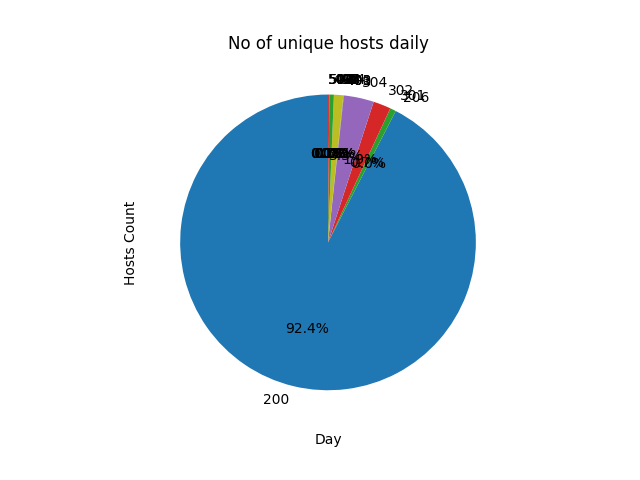
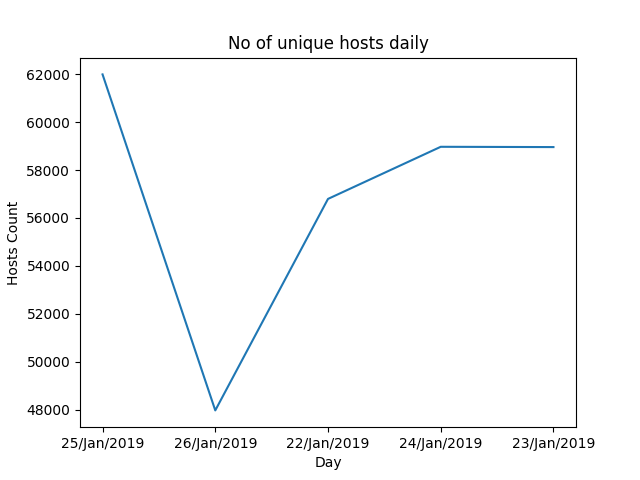
final done ig

diff --git a/q2.py b/q2.py
@@ -1,7 +1,9 @@
+from datetime import date
 import numpy as np
 import re
 import pandas as pd
 from pyspark.sql import SparkSession
+import matplotlib.pyplot as plt
 
 def f(s):
     data_arr = []
@@ -30,32 +32,28 @@ print("Number of bad rows: ", orig_count - data.count())
 
 # part D a
 d_1 = data.map(lambda x: (x[3], 1))
-d_1 = d_1.reduceByKey(lambda x,y: x+y).sortByKey()
+d_1 = d_1.groupByKey().mapValues(len).sortByKey()
 
-print("HTTP status analysis:\nstatus     count")
+print("HTTP status analysis:\nstatus    count")
 for x in d_1.collect():
     print(x[0], "     ", x[1])
-    
+
 # part D b
 
 tots = d_1.values().reduce(lambda x,y: x+y)
-
 d2 = d_1.map(lambda x : (x[0], x[1] / tots))
 
-#matplotlib pie-chart of d2
-import matplotlib.pyplot as plt
-#pie-chart of d2
 keys = d2.keys().collect()
 values = d2.values().collect()
+plt.figure()
 plt.pie(values, labels=keys, autopct='%1.1f%%', startangle=90)
-plt.savefig('pie_chart.png')
-# plt.show()
+plt.savefig('http_status_analysis.png')
 
 # part D c
 d_3 = data.map(lambda x: (x[0], 1))
-d_3 = d_3.reduceByKey(lambda x,y: x+y)
+d_3 = d_3.groupByKey().mapValues(len)
 
-print("Frequent hosts:\nhost       count")
+print("Frequent hosts:\nhost        count")
 for x in d_3.collect():
     print(x[0], "     ", x[1])
 
@@ -63,21 +61,20 @@ for x in d_3.collect():
 print("Unique hosts:\n", d_3.count())
 
 # part D e
-date_dataset = data.map(lambda x: ((x[1][0:11], x[0]), 1))
-date_dataset = date_dataset.keys().map(lambda x: (x[0], 1))
-date_dataset = date_dataset.reduceByKey(lambda x,y: x+y).sortByKey()
+date_dataset = data.map(lambda x: (x[1][0:11], x[0]))
+date_dataset = date_dataset.groupByKey().map(lambda x: (x[0], len(set(x[1])))).sortByKey()
 
-print("Unique hosts per day:\nday       hosts")
+print("Unique hosts per day:\nday               hosts")
 
 for x in date_dataset.collect():
     print(x[0], "     ", x[1])
-
 
 # part D f
 
 x = date_dataset.keys().collect()
 y = date_dataset.values().collect()
 
+plt.figure()
 plt.plot(x, y)
 plt.xlabel('Day')
 plt.ylabel('Hosts Count')
@@ -106,6 +103,7 @@ failure_data = my_data.filter(lambda x : 400 <= x[3]).map(lambda x: (int(x[1][12
 total_data = total_data.reduceByKey(lambda x,y: x+y).sortByKey()
 failure_data = failure_data.reduceByKey(lambda x,y: x+y).sortByKey()
 
+plt.figure()
 plt.plot(total_data.keys().collect(), total_data.values().collect(), label='Total Requests')
 plt.plot(failure_data.keys().collect(), failure_data.values().collect(), label='Failed Requests')
 plt.legend()
